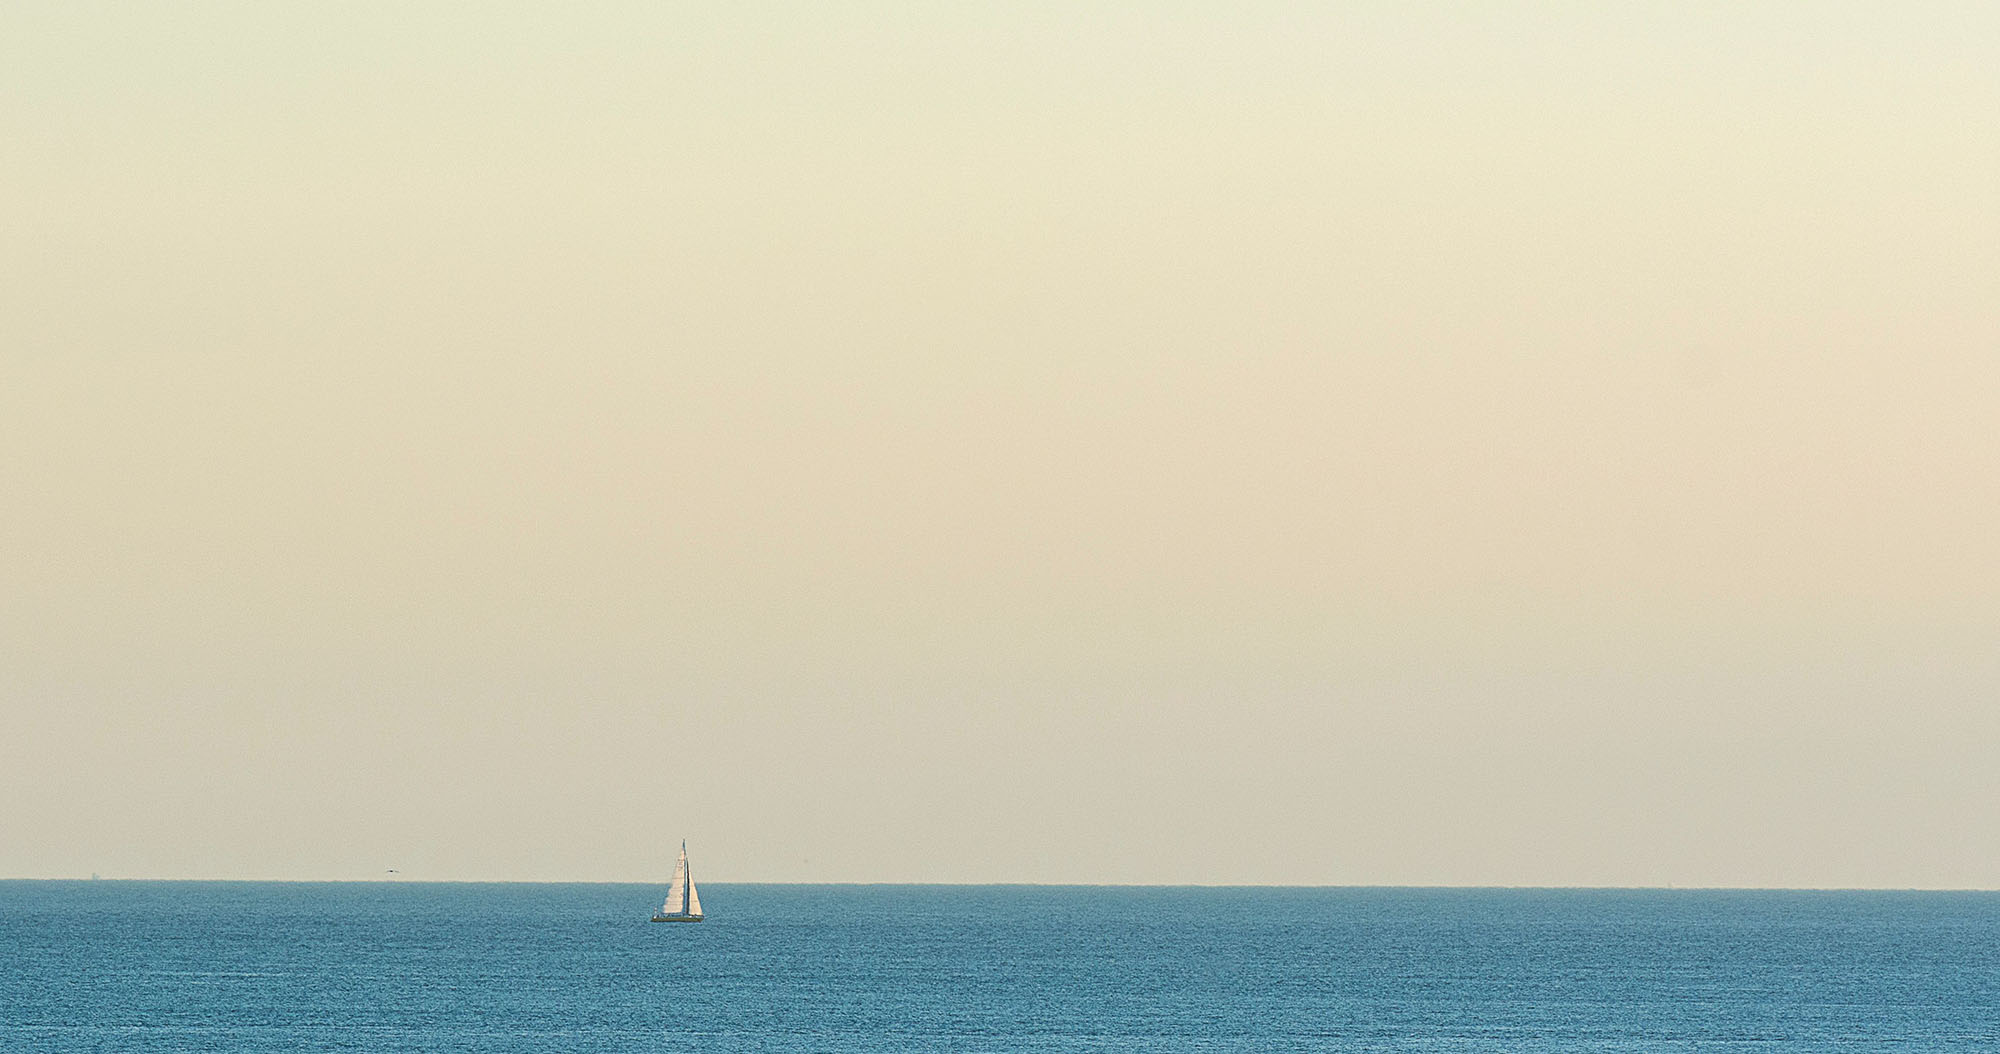
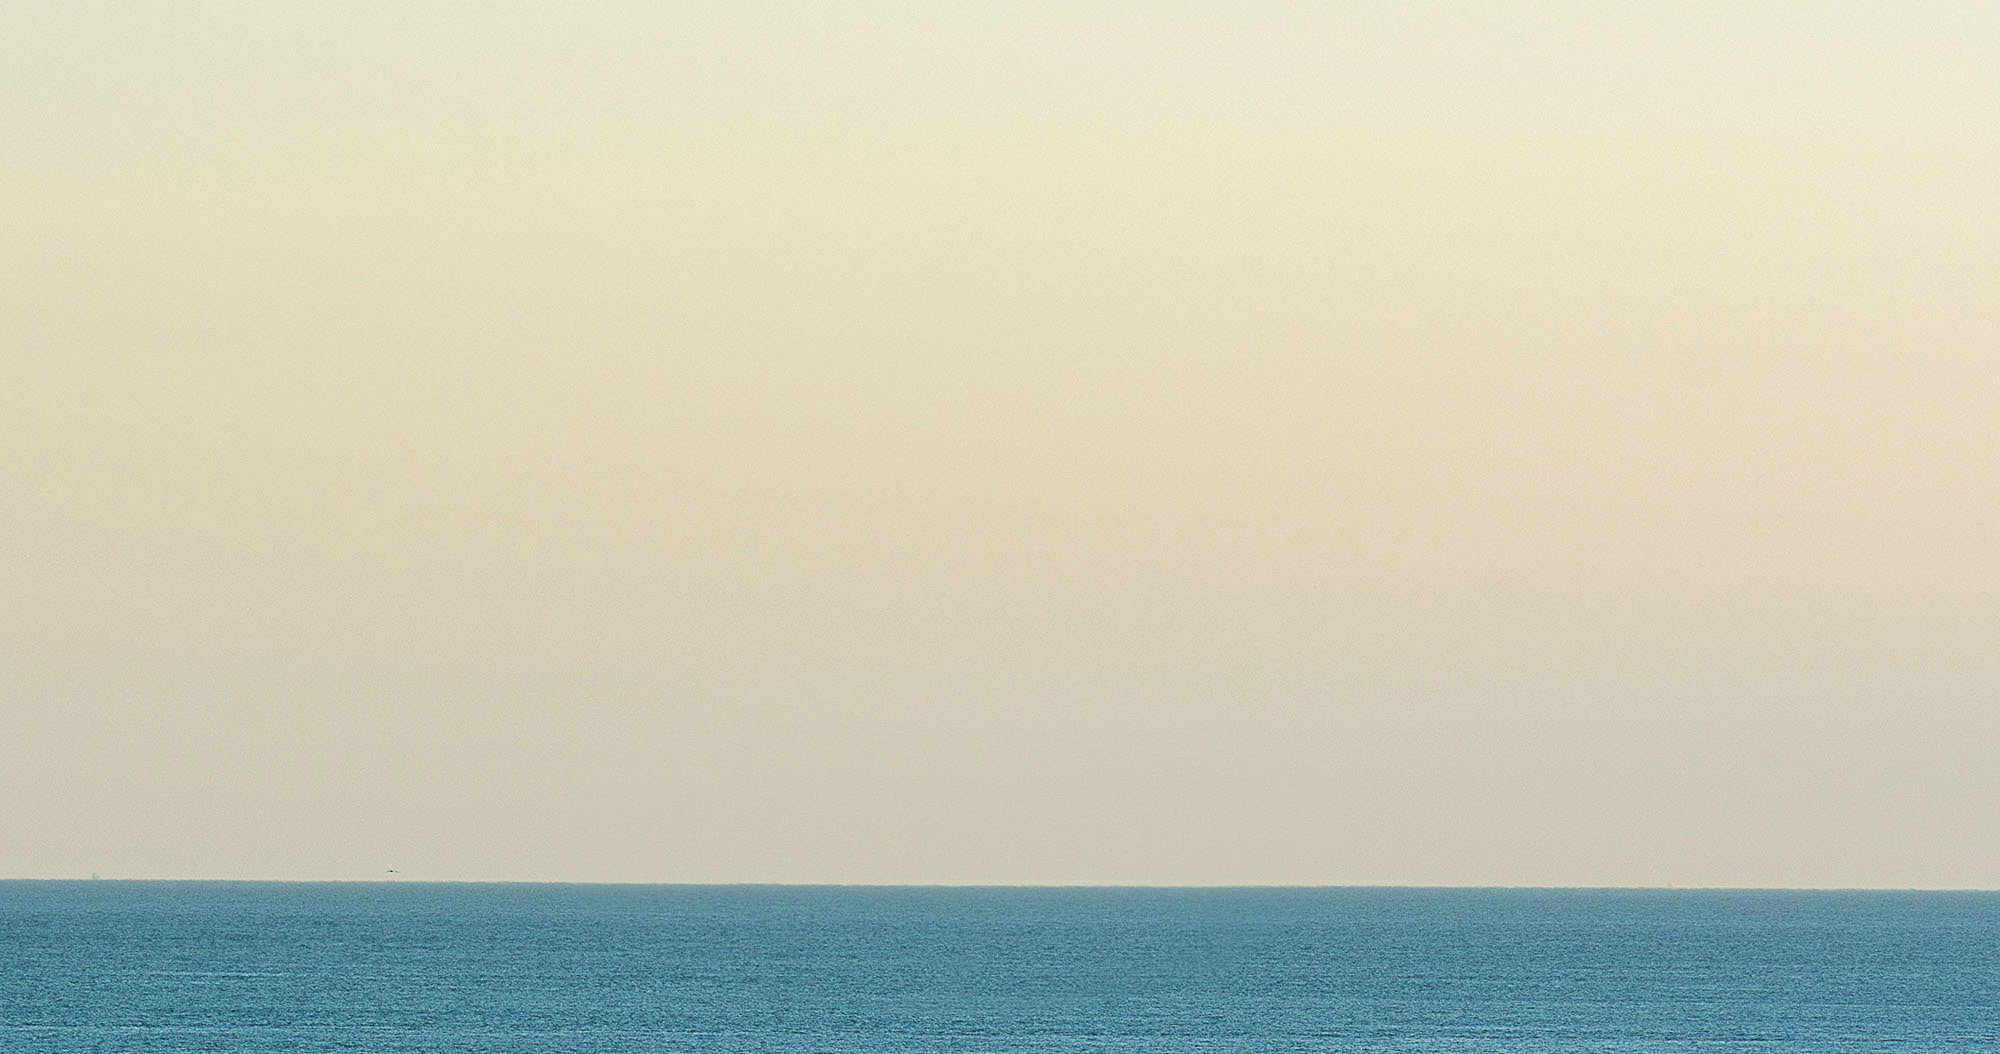
zmiana layoutu

Changed region(s): [[0.31, 0.8197, 0.62, 0.9715]]

diff --git a/styles.css b/styles.css
@@ -31,6 +31,7 @@ body {
   font-size: 16px;
   line-height: 1.7;
   -webkit-font-smoothing: antialiased;
+  overflow-x: hidden;
 }
 img {
   display: block;
@@ -182,103 +183,28 @@ a {
 }
 
 .hero {
+  position: relative;
+  width: 100%;
   min-height: 800px;
   padding-top: 155px;
   padding-bottom: 78px;
+  background-image: linear-gradient(90deg, rgba(246, 241, 233, 0.75), rgba(246, 241, 233, 0.2)), url("assets/hero.jpg");
+  background-position: center bottom;
+  background-size: cover;
+  background-repeat: no-repeat;
+  overflow: hidden;
+}
+.hero-inner {
   display: grid;
   grid-template-columns: 1.02fr 0.98fr;
   align-items: center;
   gap: 82px;
-  overflow: hidden;
 }
-.eyebrow {
-  display: flex;
-  align-items: center;
-  gap: 12px;
-  margin: 0 0 25px;
-  font-size: 12px;
-  font-weight: 700;
-  letter-spacing: 0.16em;
-  text-transform: uppercase;
+.hero-copy {
+  color: var(--ink);
 }
-.eyebrow > span {
-  width: 34px;
-  height: 1px;
-  background: var(--turquoise);
-}
-.hero h1,
-h2 {
-  margin: 0;
-  font-family: var(--serif);
-  font-weight: 400;
-  line-height: 1.06;
-  letter-spacing: -0.045em;
-}
-.hero h1 {
-  max-width: 670px;
-  font-size: clamp(54px, 6.1vw, 86px);
-}
-.hero h1 em {
-  color: var(--turquoise);
-  font-weight: 400;
-}
-.hero-lead {
-  max-width: 620px;
-  margin: 30px 0 34px;
-  color: var(--ink-soft);
-  font-size: 19px;
-  line-height: 1.65;
-}
-.hero-actions {
-  display: flex;
-  align-items: center;
-  flex-wrap: wrap;
-  gap: 26px;
-}
-.button {
-  display: inline-flex;
-  align-items: center;
-  justify-content: center;
-  gap: 26px;
-  min-height: 56px;
-  padding: 0 25px;
-  border-radius: 999px;
-  font-size: 14px;
-  font-weight: 700;
-  text-decoration: none;
-  transition: 0.25s;
-}
-.button-primary {
-  color: white;
-  background: var(--forest);
-  box-shadow: 0 10px 32px rgba(22, 55, 58, 0.18);
-}
-.button-primary:hover,
-.button-primary:focus-visible {
-  background: var(--turquoise);
-  transform: translateY(-2px);
-}
-.text-link {
-  font-size: 14px;
-  font-weight: 700;
-  text-decoration: none;
-  border-bottom: 1px solid currentColor;
-}
-.hero-meta {
-  display: flex;
-  flex-wrap: wrap;
-  gap: 20px 30px;
-  margin: 38px 0 0;
-  padding: 0;
-  color: var(--ink-soft);
-  list-style: none;
-  font-size: 13px;
-}
-.hero-meta span {
-  margin-right: 7px;
-  color: var(--turquoise);
-  font-weight: 800;
-}
+
+/* do sprawdzenia, czy używane  */
 .hero-visual {
   position: relative;
   min-height: 610px;
@@ -346,6 +272,98 @@ h2 {
   height: 260px;
   border: 1px solid rgba(217, 118, 86, 0.35);
   border-radius: 50%;
+}
+/* dotąd sprawdzić */
+
+.eyebrow {
+  display: flex;
+  align-items: center;
+  gap: 12px;
+  margin: 0 0 25px;
+  font-size: 12px;
+  font-weight: 700;
+  letter-spacing: 0.16em;
+  text-transform: uppercase;
+}
+.eyebrow > span {
+  width: 34px;
+  height: 1px;
+  background: var(--turquoise);
+}
+.hero h1,
+h2 {
+  margin: 0;
+  font-family: var(--serif);
+  font-weight: 400;
+  line-height: 1.06;
+  letter-spacing: -0.045em;
+}
+.hero h1 {
+  max-width: 670px;
+  font-size: clamp(42px, 4.5vw, 64px);
+  color: var(--ink);
+}
+.hero h1 em {
+  color: var(--turquoise);
+  font-weight: 400;
+}
+.hero-lead {
+  max-width: 620px;
+  margin: 30px 0 34px;
+  color: rgba(24, 48, 51, 0.8);
+  font-size: 19px;
+  line-height: 1.65;
+}
+.hero-actions {
+  display: flex;
+  align-items: center;
+  flex-wrap: wrap;
+  gap: 26px;
+}
+.button {
+  display: inline-flex;
+  align-items: center;
+  justify-content: center;
+  gap: 26px;
+  min-height: 56px;
+  padding: 0 25px;
+  border-radius: 999px;
+  font-size: 14px;
+  font-weight: 700;
+  text-decoration: none;
+  transition: 0.25s;
+}
+.button-primary {
+  color: white;
+  background: var(--forest);
+  box-shadow: 0 10px 32px rgba(22, 55, 58, 0.18);
+}
+.button-primary:hover,
+.button-primary:focus-visible {
+  background: var(--turquoise);
+  transform: translateY(-2px);
+}
+.text-link {
+  color: var(--ink);
+  font-size: 14px;
+  font-weight: 700;
+  text-decoration: none;
+  border-bottom: 1px solid currentColor;
+}
+.hero-meta {
+  display: flex;
+  flex-wrap: wrap;
+  gap: 20px 30px;
+  margin: 38px 0 0;
+  padding: 0;
+  color: rgba(24, 48, 51, 0.8);
+  list-style: none;
+  font-size: 13px;
+}
+.hero-meta span {
+  margin-right: 7px;
+  color: var(--forest);
+  font-weight: 800;
 }
 
 .trust-strip {
@@ -537,6 +555,8 @@ h2 {
   aspect-ratio: 4 / 5.25;
   object-fit: cover;
   object-position: center;
+  border-radius: 46% 46% 18px 18px;
+  box-shadow: var(--shadow);
 }
 .about-badge {
   position: absolute;

diff --git a/index.html b/index.html
@@ -36,37 +36,26 @@
     </header>
 
     <main id="main">
-      <section class="hero shell" aria-labelledby="hero-title">
-        <div class="hero-copy reveal">
-          <p class="eyebrow"><span></span> Terapia systemowa</p>
-          <h1 id="hero-title">Pomagam odzyskać <em>wewnętrzny kierunek.</em></h1>
-          <p class="hero-lead">
-            Towarzyszę osobom, które chcą lepiej rozumieć siebie, odzyskać równowagę lub świadomie przejść przez zmianę
-            zawodową.
-          </p>
-          <div class="hero-actions">
-            <a class="button button-primary" href="#kontakt">Umów pierwszą rozmowę <span aria-hidden="true">↗</span></a>
-            <a class="text-link" href="#oferta">Zobacz, jak mogę pomóc <span aria-hidden="true">↓</span></a>
+      <section class="hero" aria-labelledby="hero-title">
+        <div class="shell hero-inner">
+          <div class="hero-copy reveal">
+            <p class="eyebrow"><span></span> Terapia systemowa</p>
+            <h1 id="hero-title">Pomagam odzyskać <em>wewnętrzny kierunek.</em></h1>
+            <p class="hero-lead">
+              Towarzyszę osobom, które chcą lepiej rozumieć siebie, odzyskać równowagę lub świadomie przejść przez
+              zmianę zawodową.
+            </p>
+            <div class="hero-actions">
+              <a class="button button-primary" href="#kontakt"
+                >Umów pierwszą rozmowę <span aria-hidden="true">↗</span></a
+              >
+              <a class="text-link" href="#oferta">Zobacz, jak mogę pomóc <span aria-hidden="true">↓</span></a>
+            </div>
+            <ul class="hero-meta" aria-label="Formy spotkań">
+              <li><span aria-hidden="true">✓</span> Spotkania stacjonarne</li>
+              <li><span aria-hidden="true">✓</span> Konsultacje online</li>
+            </ul>
           </div>
-          <ul class="hero-meta" aria-label="Formy spotkań">
-            <li><span aria-hidden="true">✓</span> Spotkania stacjonarne</li>
-            <li><span aria-hidden="true">✓</span> Konsultacje online</li>
-          </ul>
-        </div>
-
-        <div class="hero-visual reveal reveal-delay">
-          <div class="hero-image-frame">
-            <img
-              src="assets/therapist.webp"
-              width="1050"
-              height="1350"
-              alt="Psychoterapeutka siedząca w jasnym, spokojnym gabinecie" />
-          </div>
-          <div class="hero-note">
-            <span class="note-icon" aria-hidden="true">✦</span>
-            <p><strong>Pierwsze spotkanie</strong><br />to przestrzeń, by spokojnie sprawdzić, czego potrzebujesz.</p>
-          </div>
-          <span class="hero-orbit" aria-hidden="true"></span>
         </div>
       </section>
 
@@ -148,17 +137,38 @@
       </section>
 
       <section class="about section shell" id="o-mnie" aria-labelledby="about-title">
-        <div class="about-image reveal">
+
+        <div class="hero-visual reveal reveal-delay">
+          <div class="hero-image-frame">
+            <img
+              src="assets/therapist.webp"
+              width="1050"
+              height="1350"
+              alt="Psychoterapeutka siedząca w jasnym, spokojnym gabinecie" />
+          </div>
+          <!-- <div class="hero-note">
+            <span class="note-icon" aria-hidden="true">✦</span>
+            <p><strong>Pierwsze spotkanie</strong><br />to przestrzeń, by spokojnie sprawdzić, czego potrzebujesz.</p>
+          </div> -->
+             <div class="about-badge">
+            <strong>15+</strong><span>lat pracy<br />z ludźmi</span>
+          </div>
+          <span class="hero-orbit" aria-hidden="true"></span>
+        </div>
+
+        <!-- <div class="about-image reveal">
           <img
-            src="assets/session.webp"
+            src="assets/therapist.webp"
             width="1050"
             height="1350"
             loading="lazy"
-            alt="Spokojna rozmowa podczas indywidualnej konsultacji" />
+            alt="Psychoterapeutka siedząca w jasnym, spokojnym gabinecie" />
+
           <div class="about-badge">
             <strong>10+</strong><span>lat pracy<br />z ludźmi</span>
           </div>
-        </div>
+          <span class="hero-orbit" aria-hidden="true"></span>
+        </div> -->
         <div class="about-copy reveal reveal-delay">
           <p class="eyebrow"><span></span> O mnie</p>
           <h2 id="about-title">W centrum mojej pracy zawsze jesteś Ty.</h2>
